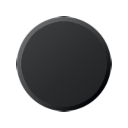
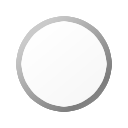
fixed stuck meter on model clear while playing

diff --git a/src/neuralblender.cpp b/src/neuralblender.cpp
@@ -2588,8 +2588,12 @@ void c_neuralblender::update_mutes () {
     for (size_t i = 0; i < NB_NUM_MODELS; ++i) {
       const bool loaded = banks [bank].lanes [i].loaded ();
       banks [bank].lanes [i].mute = !loaded;
-      if (loaded)
+      if (loaded) {
         loaded_mask |= 1u << i;
+      } else {
+        c_vudata *v = banks [bank].meters_out [i];
+        if (v) v->set_l (0.0f, 0.0f);
+      }
     }
 
     if (!loaded_mask)
@@ -2598,10 +2602,6 @@ void c_neuralblender::update_mutes () {
     banks [bank].active_mask = loaded_mask;
   }
 
-  // Compatibility for current amp-only process_block().
-  // loaded_lane_mask == 0: no models loaded, passthrough
-  // loaded_lane_mask != 0 but active mask is 0: models exist but are
-  // muted/excluded, silence/mix logic
   loaded_lane_mask.store (
     banks [BANK_AMP].active_mask, std::memory_order_release);
 

diff --git a/src/ui.cpp b/src/ui.cpp
@@ -1225,7 +1225,7 @@ c_neuralblender_ui::c_neuralblender_ui () { CP
   window = 0;
   ui_ready = false;
   
-  nbtk::colortheme_apply (0.975, 0.975, 1.0, 0.0, 0.0, -0.01,
+  nbtk::colortheme_apply (0.975, 0.975, 1.05, 0.0, 0.0, -0.01,
                           1.00, 0.5, false);
 }
 
